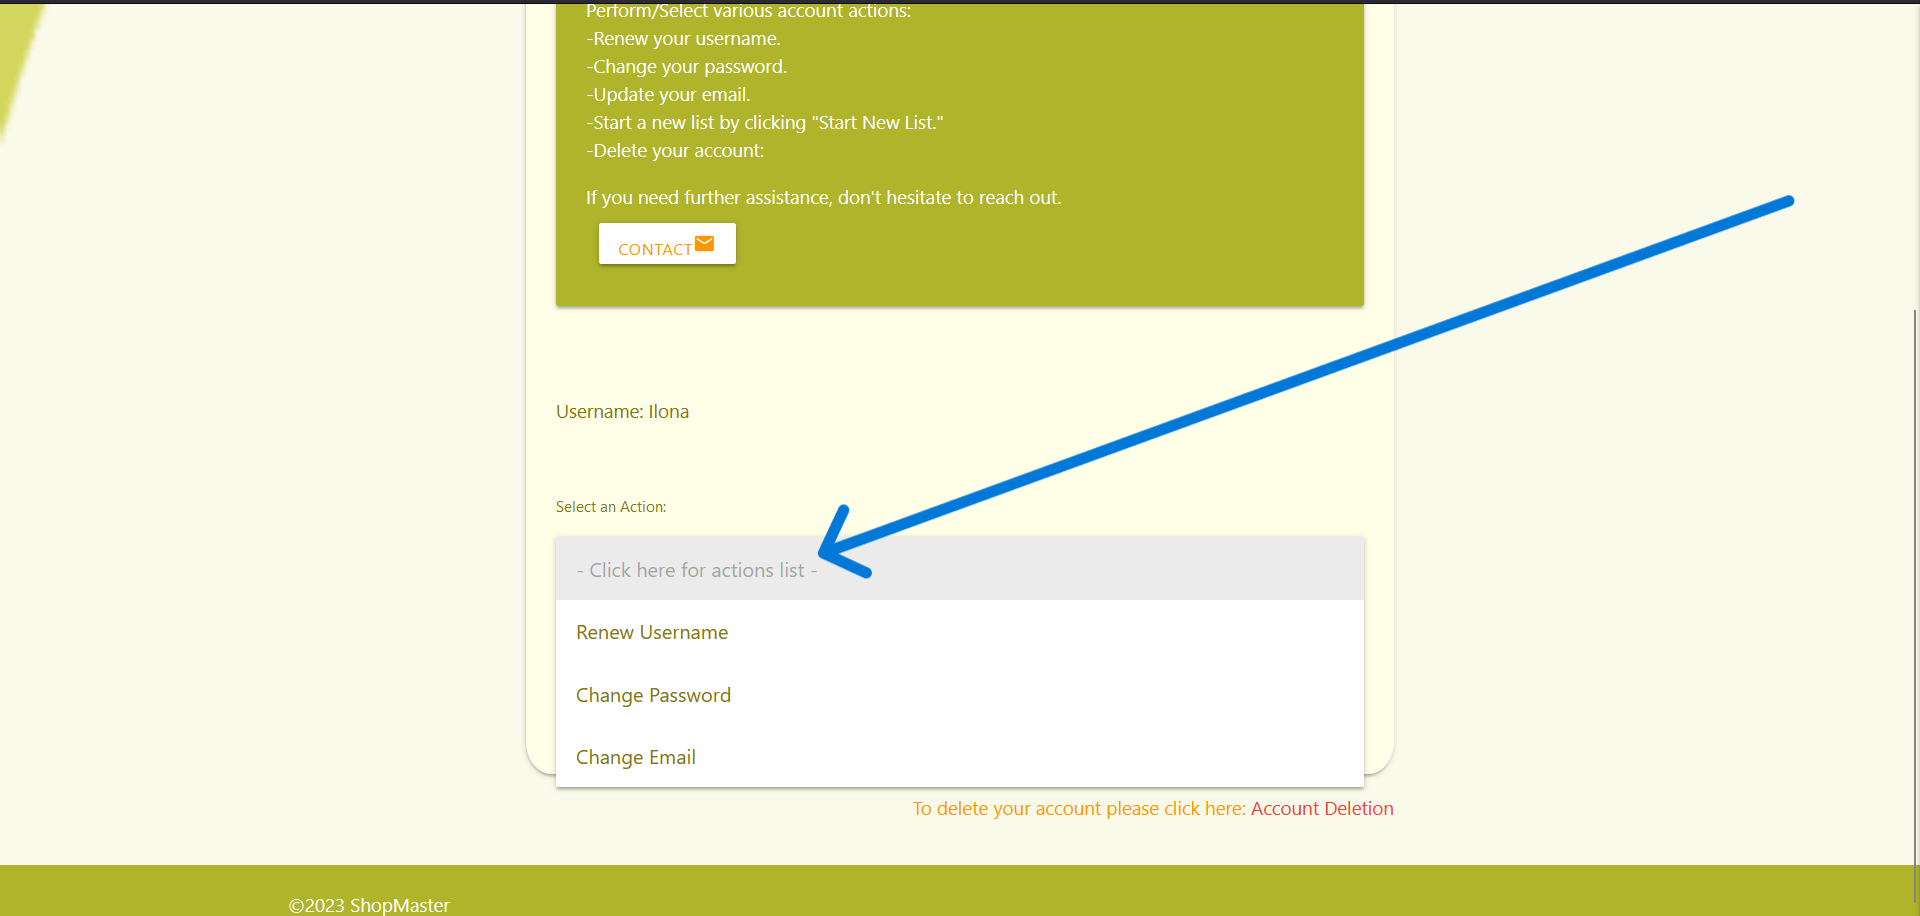
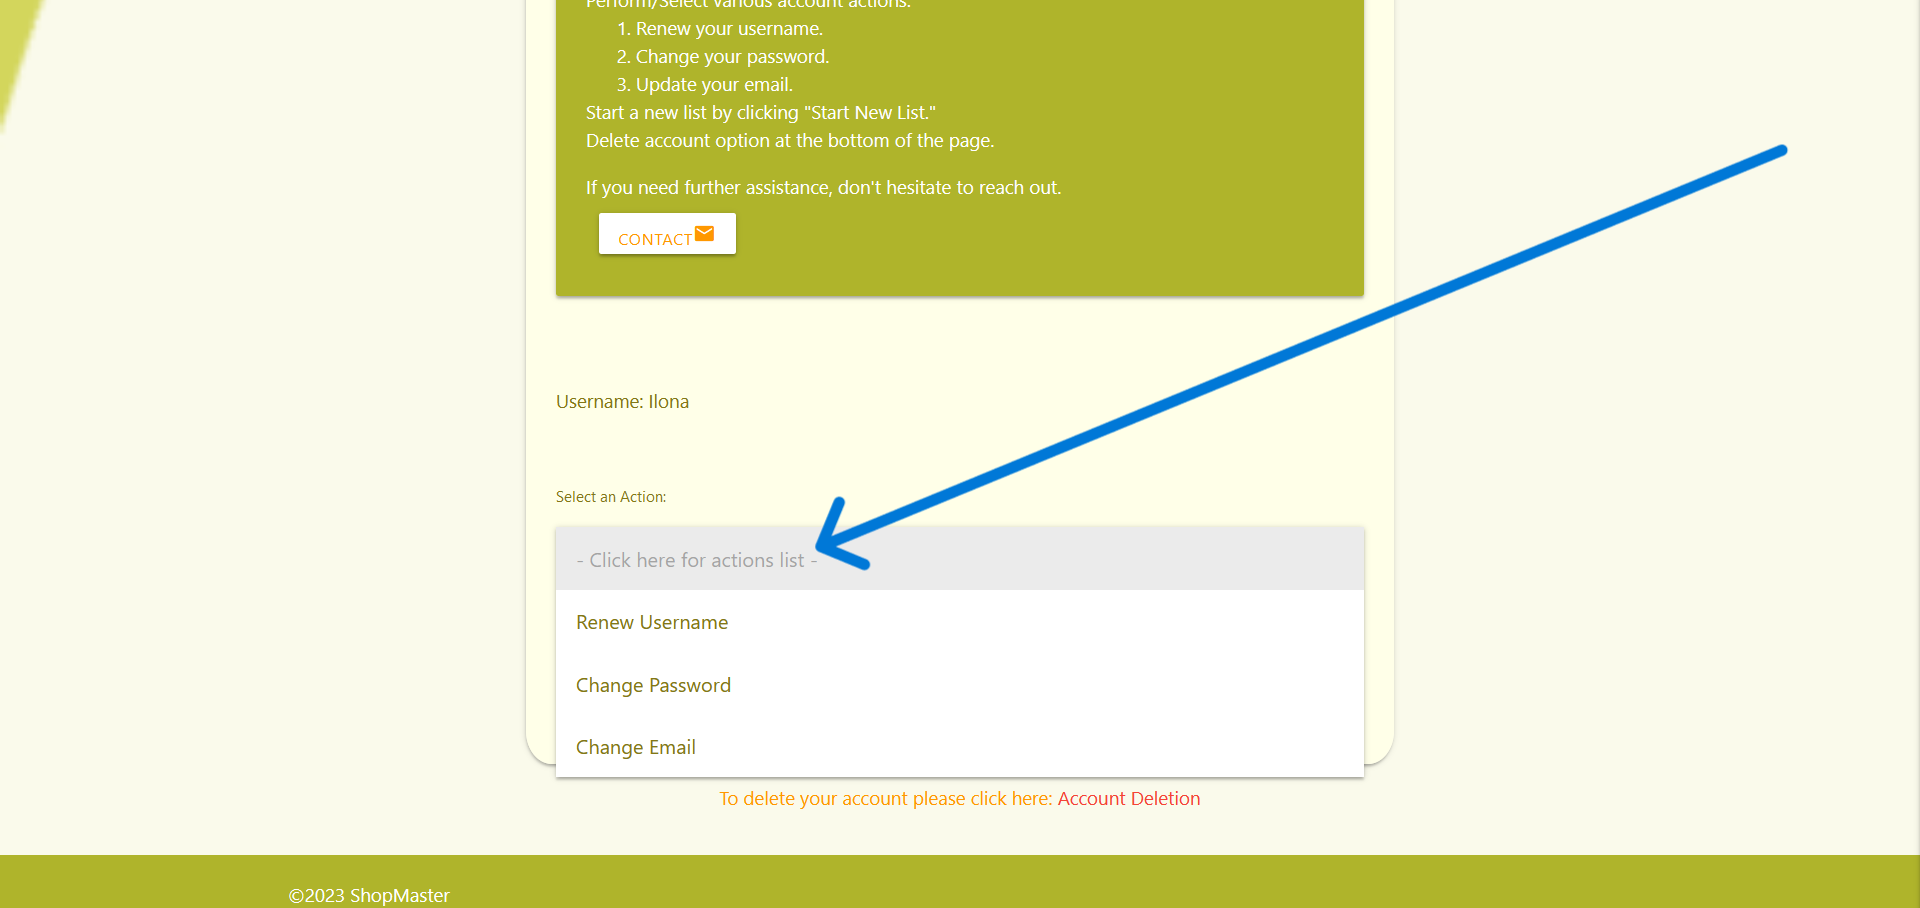
Update
Profile page list, text-align and flash messages updated

diff --git a/templates/profile.html b/templates/profile.html
@@ -18,15 +18,17 @@
                 <span class="card-title">Profile Page</span>
                 <p>Here's a brief overview of what you can do on your profile page:</p>
                 <ul>
-                  <li>Perform/Select various account actions:</li>
-                  <ul>
-                    <li>-Renew your username.</li>
-                    <li>-Change your password.</li>
-                    <li>-Update your email.</li>
-                  </ul>
-                  <li>-Start a new list by clicking "Start New List."</li>
-                  <li>-Delete your account:</li>
+                  <li>Perform/Select various account actions:
+                    <ol>
+                      <li>Renew your username.</li>
+                      <li>Change your password.</li>
+                      <li>Update your email.</li>
+                    </ol>
+                  </li>
+                  <li>Start a new list by clicking "Start New List."</li>
+                  <li>Delete account option at the bottom of the page.</li>
                 </ul>
+                
                 <p>If you need further assistance, don't hesitate to reach out.</p>
                 
                 <button onclick="window.location.href='{{ url_for('contact_developer') }}'" class="btn-small prefix orange-text white darken-4">
@@ -71,7 +73,7 @@
         </button>
       </form>
     </div>
-      <div class="right-align">
+      <div class="center-align">
         <p class="orange-text darken-4">To delete your account please click here:
         <a class="prefix red-text darken-2" href="{{ url_for('delete_account_confirm') }}">Account Deletion
         </a></p>

diff --git a/templates/base.html b/templates/base.html
@@ -68,7 +68,7 @@
                 {% if messages %}
                     {% for message in messages %}
                         <div class="row flashes">
-                            <h4 class="center-align prefix lime-text darken-2">{{ message }}</h4>
+                            <h4 class="center-align prefix white-text lime darken-2">{{ message }}</h4>
                         </div>
                     {% endfor %}
                 {% endif %}
